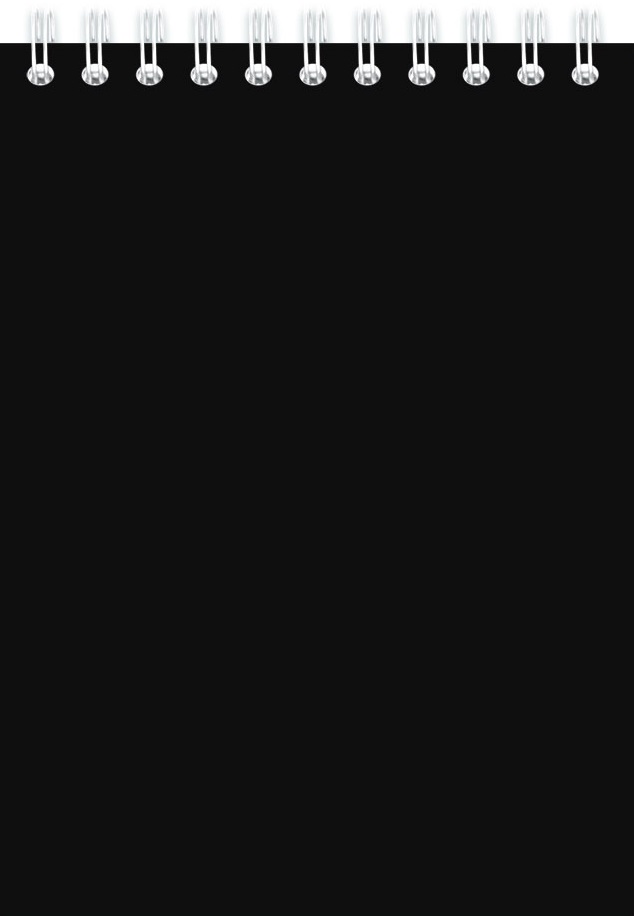
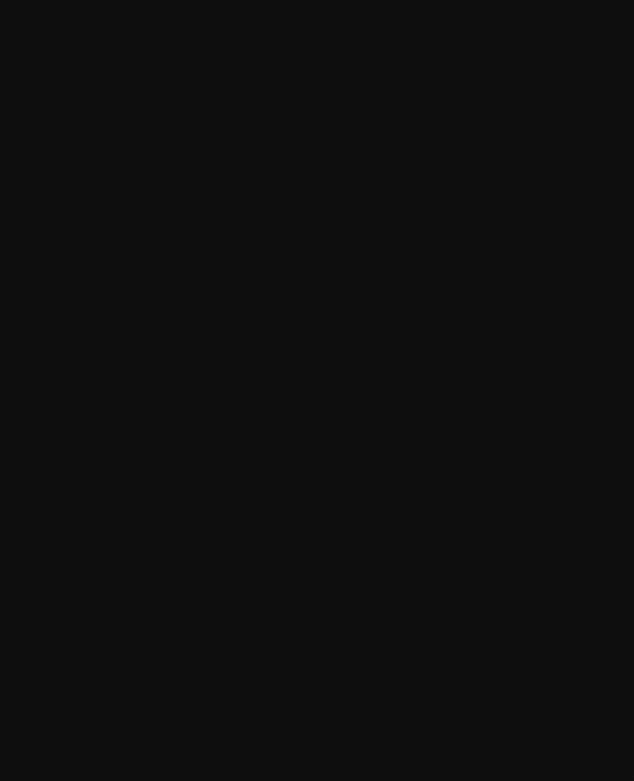
2409_done

Changed region(s): [[0.0, 0.0, 1.0, 0.0922]]

diff --git a/src/styles/containerPage.module.scss b/src/styles/containerPage.module.scss
@@ -5,14 +5,14 @@
   max-width: 500px;
   min-height: 650px;
   color: #e0e0e0;
-  background:
-  //фон с верхней рамкой не повторяется
-    url('../assets/backgroundNote.png') no-repeat top center, 
-  //остоальной фон повторяется по вертикали стопицот тыщ раз по необходимости
-    url('../assets/backgroundNote.png') repeat-y 0 5000000px; 
-  background-size:
-    auto,       
-    auto;        
+  background: 
+ //фон с верхней рамкой не повторяется
+  url('../assets/backgroundNoteStart.png') no-repeat top center, 
+  //остальной фон повторяется по вертикали
+  url('../assets/backgroundNote.png') repeat-y;
+  background-size: 
+    auto, 
+    auto;
   margin: 50px auto 0;
   padding: 100px 10px 40px;
 }
